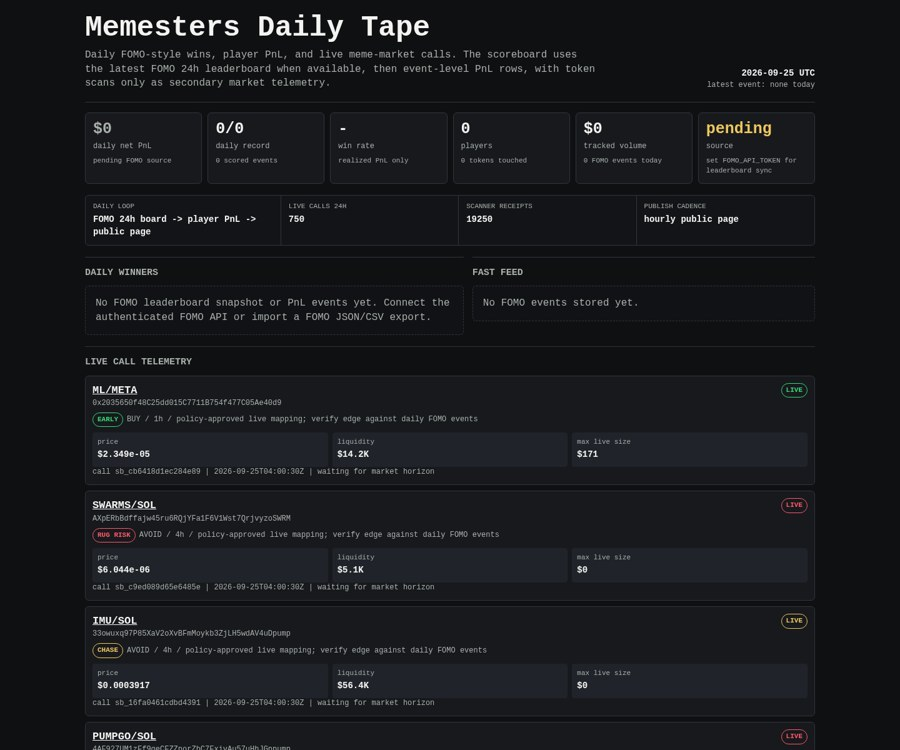
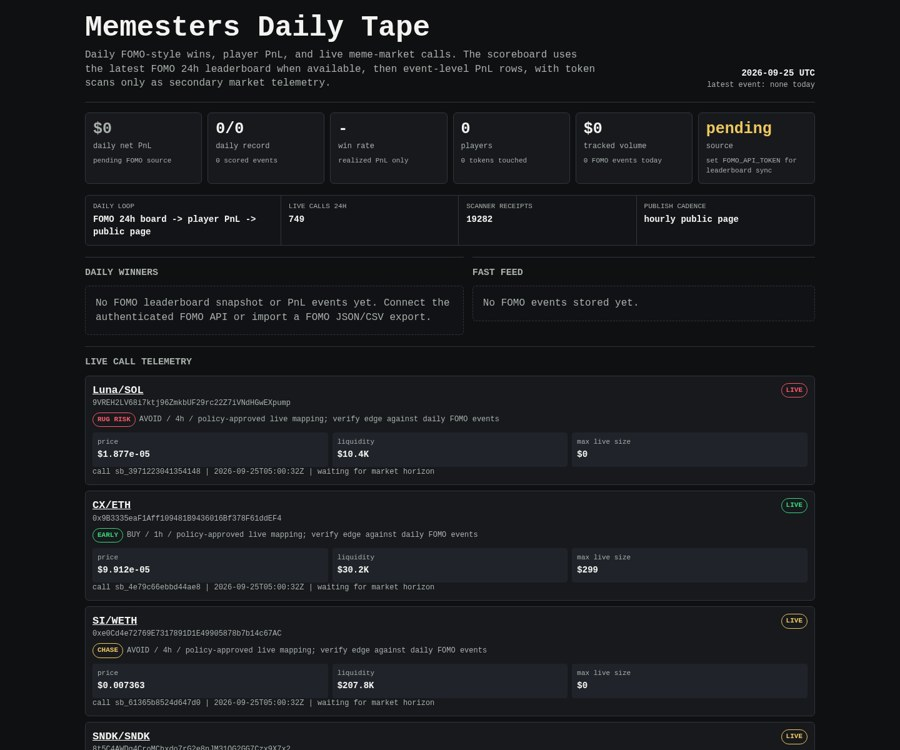
Update Memesters scoreboard

diff --git a/memesters/index.html b/memesters/index.html
@@ -149,8 +149,8 @@
 
     <div class="rail" aria-label="live operating loop">
       <div><span>daily loop</span><b>FOMO 24h board -> player PnL -> public page</b></div>
-      <div><span>live calls 24h</span><b>750</b></div>
-      <div><span>scanner receipts</span><b>19250</b></div>
+      <div><span>live calls 24h</span><b>749</b></div>
+      <div><span>scanner receipts</span><b>19282</b></div>
       <div><span>publish cadence</span><b>hourly public page</b></div>
     </div>
 
@@ -171,8 +171,29 @@
     <article class="receipt">
       <div class="receipt-head">
         <div>
-          <div class="pair"><a href="https://dexscreener.com/robinhood/0x147ea129abd385fbdbbdf65246cd41dafcc89d2c1ec9f452a210f0d956db215d">ML/META</a></div>
-          <div class="addr">0x2035650f48C25dd015C7711B754f477C05Ae40d9</div>
+          <div class="pair"><a href="https://dexscreener.com/solana/esgvxxp8ecsadilx4o5dqenvyqpvxxvdugnr7bpdefsz">Luna/SOL</a></div>
+          <div class="addr">9VREH2LV68i7ktj96ZmkbUF29rc22Z7iVNdHGwEXpump</div>
+          <div class="addr policy-line">
+            <span class="badge rug-risk">RUG RISK</span>
+            <span>AVOID / 4h / policy-approved live mapping; verify edge against daily FOMO events</span>
+          </div>
+        </div>
+        <span class="badge rug-risk">LIVE</span>
+      </div>
+      <div class="receipt-grid">
+        <div class="kv"><span>price</span><b>$1.877e-05</b></div>
+        <div class="kv"><span>liquidity</span><b>$10.4K</b></div>
+        <div class="kv"><span>max live size</span><b>$0</b></div>
+      </div>
+      <div class="outcomes">call sb_3971223041354148 | 2026-09-25T05:00:32Z | waiting for market horizon</div>
+    </article>
+    
+
+    <article class="receipt">
+      <div class="receipt-head">
+        <div>
+          <div class="pair"><a href="https://dexscreener.com/robinhood/0xf496566774b2337ab86eb3959634c9d16d866cd637a8cb124bb01b44c184bd58">CX/ETH</a></div>
+          <div class="addr">0x9B3335eaF1Aff109481B9436016Bf378F61ddEF4</div>
           <div class="addr policy-line">
             <span class="badge early">EARLY</span>
             <span>BUY / 1h / policy-approved live mapping; verify edge against daily FOMO events</span>
@@ -181,103 +202,82 @@
         <span class="badge early">LIVE</span>
       </div>
       <div class="receipt-grid">
-        <div class="kv"><span>price</span><b>$2.349e-05</b></div>
-        <div class="kv"><span>liquidity</span><b>$14.2K</b></div>
-        <div class="kv"><span>max live size</span><b>$171</b></div>
-      </div>
-      <div class="outcomes">call sb_cb6418d1ec284e89 | 2026-09-25T04:00:30Z | waiting for market horizon</div>
-    </article>
-    
-
-    <article class="receipt">
-      <div class="receipt-head">
-        <div>
-          <div class="pair"><a href="https://dexscreener.com/solana/31mfykfljwd4nrc1wwr3ycbwparegszyfmvxwnarzfmp">SWARMS/SOL</a></div>
-          <div class="addr">AXpERbBdffajw45ru6RQjYFa1F6V1Wst7QrjvyzoSWRM</div>
-          <div class="addr policy-line">
-            <span class="badge rug-risk">RUG RISK</span>
-            <span>AVOID / 4h / policy-approved live mapping; verify edge against daily FOMO events</span>
-          </div>
-        </div>
-        <span class="badge rug-risk">LIVE</span>
-      </div>
-      <div class="receipt-grid">
-        <div class="kv"><span>price</span><b>$6.044e-06</b></div>
-        <div class="kv"><span>liquidity</span><b>$5.1K</b></div>
-        <div class="kv"><span>max live size</span><b>$0</b></div>
-      </div>
-      <div class="outcomes">call sb_c9ed089d65e6485e | 2026-09-25T04:00:30Z | waiting for market horizon</div>
-    </article>
-    
-
-    <article class="receipt">
-      <div class="receipt-head">
-        <div>
-          <div class="pair"><a href="https://dexscreener.com/solana/ru8besjvdgtjw6wpysguabcbs7nsf4muakbkt56uekx">IMU/SOL</a></div>
-          <div class="addr">33owuxq97P85XaV2oXvBFmMoykb3ZjLH5wdAV4uDpump</div>
-          <div class="addr policy-line">
-            <span class="badge chase">CHASE</span>
-            <span>AVOID / 4h / policy-approved live mapping; verify edge against daily FOMO events</span>
-          </div>
-        </div>
-        <span class="badge chase">LIVE</span>
-      </div>
-      <div class="receipt-grid">
-        <div class="kv"><span>price</span><b>$0.0003917</b></div>
-        <div class="kv"><span>liquidity</span><b>$56.4K</b></div>
-        <div class="kv"><span>max live size</span><b>$0</b></div>
-      </div>
-      <div class="outcomes">call sb_16fa0461cdbd4391 | 2026-09-25T04:00:30Z | waiting for market horizon</div>
-    </article>
-    
-
-    <article class="receipt">
-      <div class="receipt-head">
-        <div>
-          <div class="pair"><a href="https://dexscreener.com/solana/52ztecnp5kqcebcblwwdubpldmctvvd8hqzlnyuw4uyd">PUMPGO/SOL</a></div>
-          <div class="addr">4AF927UM1zFf9geCFZZporZbC7FxivAu57uHhJGppump</div>
-          <div class="addr policy-line">
-            <span class="badge rug-risk">RUG RISK</span>
-            <span>AVOID / 4h / policy-approved live mapping; verify edge against daily FOMO events</span>
-          </div>
-        </div>
-        <span class="badge rug-risk">LIVE</span>
-      </div>
-      <div class="receipt-grid">
-        <div class="kv"><span>price</span><b>$2.205e-06</b></div>
-        <div class="kv"><span>liquidity</span><b>$2.3K</b></div>
-        <div class="kv"><span>max live size</span><b>$0</b></div>
-      </div>
-      <div class="outcomes">call sb_ceef7c3c2cad4b7d | 2026-09-25T04:00:30Z | waiting for market horizon</div>
-    </article>
-    
-
-    <article class="receipt">
-      <div class="receipt-head">
-        <div>
-          <div class="pair"><a href="https://dexscreener.com/solana/7wjskaxzbkuegczpruxbiqzwkpdmseprvsvcjuybwgwu">SRUN/SOL</a></div>
-          <div class="addr">GavQxkBXLg9Qwvxgni8SLJAnxLL592j55jVS2fnFpump</div>
-          <div class="addr policy-line">
-            <span class="badge chase">CHASE</span>
-            <span>AVOID / 4h / policy-approved live mapping; verify edge against daily FOMO events</span>
-          </div>
-        </div>
-        <span class="badge chase">LIVE</span>
-      </div>
-      <div class="receipt-grid">
-        <div class="kv"><span>price</span><b>$0.0001218</b></div>
+        <div class="kv"><span>price</span><b>$9.912e-05</b></div>
         <div class="kv"><span>liquidity</span><b>$30.2K</b></div>
-        <div class="kv"><span>max live size</span><b>$0</b></div>
+        <div class="kv"><span>max live size</span><b>$299</b></div>
       </div>
-      <div class="outcomes">call sb_9b28113fd51443bb | 2026-09-25T04:00:30Z | waiting for market horizon</div>
+      <div class="outcomes">call sb_4e79c66ebbd44ae8 | 2026-09-25T05:00:32Z | waiting for market horizon</div>
     </article>
     
 
     <article class="receipt">
       <div class="receipt-head">
         <div>
-          <div class="pair"><a href="https://dexscreener.com/solana/8pt9iedbdzekcgm2g2szb9sfcc7deb4kmeda3y8pohh6">Journey/SOL</a></div>
-          <div class="addr">FHPGNGNWPJsARRQ99V1qeokG128wWe7Mh4NM984ZGSoP</div>
+          <div class="pair"><a href="https://dexscreener.com/robinhood/0x94bbe853481f40d049d98eb830c57276d9727e5b">SI/WETH</a></div>
+          <div class="addr">0xe0Cd4e72769E7317891D1E49905878b7b14c67AC</div>
+          <div class="addr policy-line">
+            <span class="badge chase">CHASE</span>
+            <span>AVOID / 4h / policy-approved live mapping; verify edge against daily FOMO events</span>
+          </div>
+        </div>
+        <span class="badge chase">LIVE</span>
+      </div>
+      <div class="receipt-grid">
+        <div class="kv"><span>price</span><b>$0.007363</b></div>
+        <div class="kv"><span>liquidity</span><b>$207.8K</b></div>
+        <div class="kv"><span>max live size</span><b>$0</b></div>
+      </div>
+      <div class="outcomes">call sb_61365b8524d647d0 | 2026-09-25T05:00:32Z | waiting for market horizon</div>
+    </article>
+    
+
+    <article class="receipt">
+      <div class="receipt-head">
+        <div>
+          <div class="pair"><a href="https://dexscreener.com/solana/easwkdoy1n8j6hmfekvqhoz8yffs7vhunszobgtfu8jw">SNDK/SNDK</a></div>
+          <div class="addr">8t5C4AWDg4CroMChxdo7rG2e8nJM31QG2GG7Czx9X7x2</div>
+          <div class="addr policy-line">
+            <span class="badge chase">CHASE</span>
+            <span>AVOID / 4h / policy-approved live mapping; verify edge against daily FOMO events</span>
+          </div>
+        </div>
+        <span class="badge chase">LIVE</span>
+      </div>
+      <div class="receipt-grid">
+        <div class="kv"><span>price</span><b>$0.0003139</b></div>
+        <div class="kv"><span>liquidity</span><b>$51.8K</b></div>
+        <div class="kv"><span>max live size</span><b>$0</b></div>
+      </div>
+      <div class="outcomes">call sb_64d8e3900e7a4a41 | 2026-09-25T05:00:32Z | waiting for market horizon</div>
+    </article>
+    
+
+    <article class="receipt">
+      <div class="receipt-head">
+        <div>
+          <div class="pair"><a href="https://dexscreener.com/robinhood/0xd3791e630c05c4a2bed6f83c6a0d2ee05e8b5da8a08faa907b4817802be15081">HOODIE/ETH</a></div>
+          <div class="addr">0x3b1F8BE42886f7CC01d43450936e233fA63834Cc</div>
+          <div class="addr policy-line">
+            <span class="badge early">EARLY</span>
+            <span>BUY / 1h / policy-approved live mapping; verify edge against daily FOMO events</span>
+          </div>
+        </div>
+        <span class="badge early">LIVE</span>
+      </div>
+      <div class="receipt-grid">
+        <div class="kv"><span>price</span><b>$8.209e-05</b></div>
+        <div class="kv"><span>liquidity</span><b>$27.5K</b></div>
+        <div class="kv"><span>max live size</span><b>$33</b></div>
+      </div>
+      <div class="outcomes">call sb_10571155dc3d4595 | 2026-09-25T05:00:32Z | waiting for market horizon</div>
+    </article>
+    
+
+    <article class="receipt">
+      <div class="receipt-head">
+        <div>
+          <div class="pair"><a href="https://dexscreener.com/robinhood/0x6cf78f020240c667166ad14cb5a75dc510aa9137">MuseClub/WETH</a></div>
+          <div class="addr">0x87086C205C724Db999a4b7AdfD106C8f24adA2F7</div>
           <div class="addr policy-line">
             <span class="badge rug-risk">RUG RISK</span>
             <span>AVOID / 4h / policy-approved live mapping; verify edge against daily FOMO events</span>
@@ -286,40 +286,19 @@
         <span class="badge rug-risk">LIVE</span>
       </div>
       <div class="receipt-grid">
-        <div class="kv"><span>price</span><b>$3.314e-05</b></div>
-        <div class="kv"><span>liquidity</span><b>$14.5K</b></div>
+        <div class="kv"><span>price</span><b>$0.0009421</b></div>
+        <div class="kv"><span>liquidity</span><b>$98.0K</b></div>
         <div class="kv"><span>max live size</span><b>$0</b></div>
       </div>
-      <div class="outcomes">call sb_522d8d37a4934c31 | 2026-09-25T04:00:30Z | waiting for market horizon</div>
+      <div class="outcomes">call sb_395bf8c4fc7c4c91 | 2026-09-25T05:00:32Z | waiting for market horizon</div>
     </article>
     
 
     <article class="receipt">
       <div class="receipt-head">
         <div>
-          <div class="pair"><a href="https://dexscreener.com/robinhood/0xa2f617dddb73c64b91e73893b5ac987e0bb54693">chape/WETH</a></div>
-          <div class="addr">0xb603e9eEaf16CEE5e738e61e5E99B523622Fd2d5</div>
-          <div class="addr policy-line">
-            <span class="badge chase">CHASE</span>
-            <span>AVOID / 4h / policy-approved live mapping; verify edge against daily FOMO events</span>
-          </div>
-        </div>
-        <span class="badge chase">LIVE</span>
-      </div>
-      <div class="receipt-grid">
-        <div class="kv"><span>price</span><b>$0.0001708</b></div>
-        <div class="kv"><span>liquidity</span><b>$82.3K</b></div>
-        <div class="kv"><span>max live size</span><b>$0</b></div>
-      </div>
-      <div class="outcomes">call sb_64e5abe814714824 | 2026-09-25T04:00:30Z | waiting for market horizon</div>
-    </article>
-    
-
-    <article class="receipt">
-      <div class="receipt-head">
-        <div>
-          <div class="pair"><a href="https://dexscreener.com/solana/8hcilrxkk5tl2qgcrqvlgyyyk4dps2dwxqh5muzlb3yq">GO10/SOL</a></div>
-          <div class="addr">3xVhF6rpdFsJFcpURDVg3bZvXwuAWEFwgP5yKp4HrvtA</div>
+          <div class="pair"><a href="https://dexscreener.com/solana/firlqab6rbfbuswzjevquujc7vasqka53pj3xenxnmqf">CTcard/SOL</a></div>
+          <div class="addr">8bGPqLvrvFtxwzWHDwJpqPzaHefE4VwBAtMQNKsZpump</div>
           <div class="addr policy-line">
             <span class="badge early">EARLY</span>
             <span>BUY / 1h / policy-approved live mapping; verify edge against daily FOMO events</span>
@@ -328,19 +307,19 @@
         <span class="badge early">LIVE</span>
       </div>
       <div class="receipt-grid">
-        <div class="kv"><span>price</span><b>$4.271e-05</b></div>
-        <div class="kv"><span>liquidity</span><b>$18.4K</b></div>
-        <div class="kv"><span>max live size</span><b>$78</b></div>
+        <div class="kv"><span>price</span><b>$5.443e-05</b></div>
+        <div class="kv"><span>liquidity</span><b>$19.2K</b></div>
+        <div class="kv"><span>max live size</span><b>$231</b></div>
       </div>
-      <div class="outcomes">call sb_d02562ccfa73412c | 2026-09-25T03:45:29Z | waiting for market horizon</div>
+      <div class="outcomes">call sb_858af17ec7f543bb | 2026-09-25T05:00:32Z | waiting for market horizon</div>
     </article>
     
 
     <article class="receipt">
       <div class="receipt-head">
         <div>
-          <div class="pair"><a href="https://dexscreener.com/solana/hfxemazglfr6voh6msjgy3zndqxeyenmkm17uwnrgdfi">TRUMPCAT/SOL</a></div>
-          <div class="addr">2xENFwp9jh3VY7yCQgKgeQ3KsgVCzm7AZVWWruUcFLEX</div>
+          <div class="pair"><a href="https://dexscreener.com/solana/8vpcswmh6mi2atzvaz8ki6bw8fjhqrgpedmk5fpvz79g">BONGO/SOL</a></div>
+          <div class="addr">BaNT5nGdPZP3X2iJcYzprgyqTqUv9PBcuDsd9HkUpump</div>
           <div class="addr policy-line">
             <span class="badge chase">CHASE</span>
             <span>AVOID / 4h / policy-approved live mapping; verify edge against daily FOMO events</span>
@@ -349,19 +328,19 @@
         <span class="badge chase">LIVE</span>
       </div>
       <div class="receipt-grid">
-        <div class="kv"><span>price</span><b>$0.0001229</b></div>
-        <div class="kv"><span>liquidity</span><b>$34.9K</b></div>
+        <div class="kv"><span>price</span><b>$0.0001299</b></div>
+        <div class="kv"><span>liquidity</span><b>$31.1K</b></div>
         <div class="kv"><span>max live size</span><b>$0</b></div>
       </div>
-      <div class="outcomes">call sb_f5ed45e7874f4003 | 2026-09-25T03:45:29Z | waiting for market horizon</div>
+      <div class="outcomes">call sb_8d067855e9794fde | 2026-09-25T05:00:32Z | waiting for market horizon</div>
     </article>
     
 
     <article class="receipt">
       <div class="receipt-head">
         <div>
-          <div class="pair"><a href="https://dexscreener.com/solana/9aut3jftkilmywm5kkyzrhzqbybkbtvvws5hiyrsedfg">FARTCOINU/Fartcoin </a></div>
-          <div class="addr">4bC8X3gaQ4EZjnr5CPtZkCc2i4MGptf9XZvAMT8hHstm</div>
+          <div class="pair"><a href="https://dexscreener.com/robinhood/0x1ff012bb29ee9e0e79d3ba4bdc7843b1cf7ecef1b8aecab9f7490b34495155d0">PKSTR/ETH</a></div>
+          <div class="addr">0xe46d4605f43A23fF6842E81304502A6c25832e43</div>
           <div class="addr policy-line">
             <span class="badge early">EARLY</span>
             <span>BUY / 1h / policy-approved live mapping; verify edge against daily FOMO events</span>
@@ -370,11 +349,32 @@
         <span class="badge early">LIVE</span>
       </div>
       <div class="receipt-grid">
-        <div class="kv"><span>price</span><b>$4.657e-05</b></div>
-        <div class="kv"><span>liquidity</span><b>$17.2K</b></div>
-        <div class="kv"><span>max live size</span><b>$206</b></div>
+        <div class="kv"><span>price</span><b>$4.261e-05</b></div>
+        <div class="kv"><span>liquidity</span><b>$19.8K</b></div>
+        <div class="kv"><span>max live size</span><b>$238</b></div>
       </div>
-      <div class="outcomes">call sb_11621b98c08242dd | 2026-09-25T03:45:29Z | waiting for market horizon</div>
+      <div class="outcomes">call sb_5972eda5bb2346c4 | 2026-09-25T04:45:27Z | waiting for market horizon</div>
+    </article>
+    
+
+    <article class="receipt">
+      <div class="receipt-head">
+        <div>
+          <div class="pair"><a href="https://dexscreener.com/solana/zv3hldjphqjwi4j3e3yp5wqkh4xcv94paupmyyxk7t3">FomoHood/SOL</a></div>
+          <div class="addr">73HdiU21LmVf3qR7HDEoX2LayiBxNQib4teRBKCopump</div>
+          <div class="addr policy-line">
+            <span class="badge rug-risk">RUG RISK</span>
+            <span>AVOID / 4h / policy-approved live mapping; verify edge against daily FOMO events</span>
+          </div>
+        </div>
+        <span class="badge rug-risk">LIVE</span>
+      </div>
+      <div class="receipt-grid">
+        <div class="kv"><span>price</span><b>$2.664e-06</b></div>
+        <div class="kv"><span>liquidity</span><b>$3.0K</b></div>
+        <div class="kv"><span>max live size</span><b>$0</b></div>
+      </div>
+      <div class="outcomes">call sb_b0396c14c0b842ce | 2026-09-25T04:45:27Z | waiting for market horizon</div>
     </article>
     
     </section>
